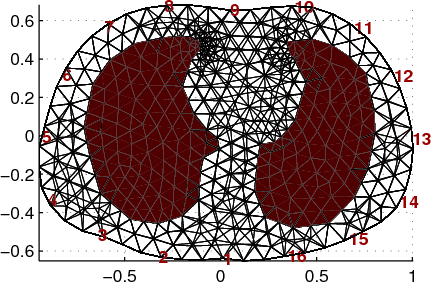
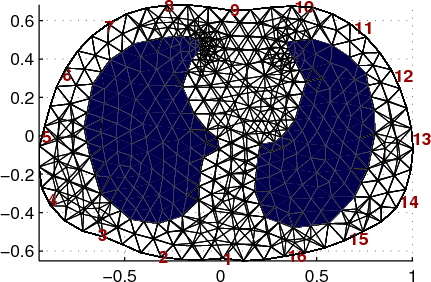
correct lung conductivity contrast
git-svn-id: svn://svn.code.sf.net/p/eidors3d/code/trunk@2798 82006732-fb7e-4a22-9f28-86a212cce563

Changed region(s): [[0.181, 0.1135, 0.5128, 0.7943], [0.5731, 0.1418, 0.8747, 0.8227]]

diff --git a/htdocs/tutorial/GREIT/adult_ex01.m b/htdocs/tutorial/GREIT/adult_ex01.m
@@ -1,9 +1,7 @@
 fmdl= mk_library_model('adult_male_16el_lungs');
 fmdl.electrode = fmdl.electrode([9:16,1:8]);
 img = mk_image(fmdl, 1); % background conductivity
-% Note, I don't understand why it takes a conductivity increase
-%  here: This needs to be debugged further
-img.elem_data([fmdl.mat_idx{2};fmdl.mat_idx{3}]) = 1.3; % lungs
+img.elem_data([fmdl.mat_idx{2};fmdl.mat_idx{3}]) = 0.3; % lungs
 subplot(211); show_fem(img);
 print_convert adult_ex01a.png
 show_fem(img,[0,1]); view(2); %electrode #'s
